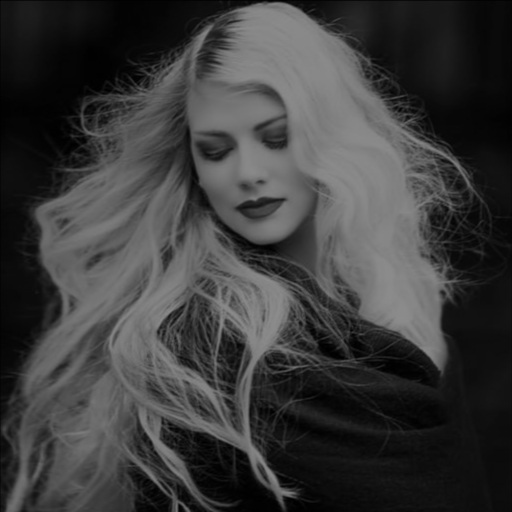
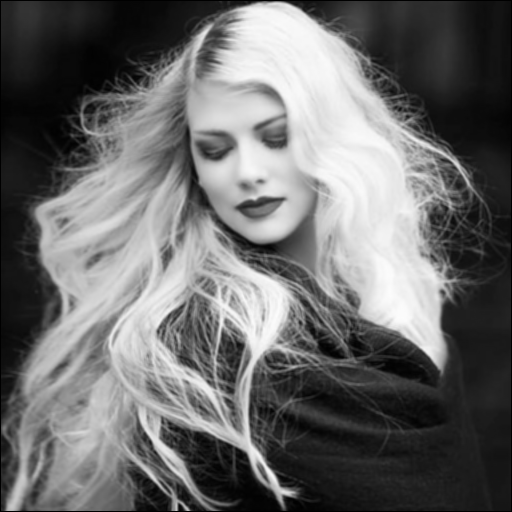
fixed open issue. can generate multiple image in one program. when padding with zeros, the intensity will be decreased. the kernel number should be odd.

diff --git a/lab2.py b/lab2.py
@@ -23,8 +23,9 @@ def gkern(l, sig):
 
     return kernel / np.sum(kernel)
 k3=gkern(3,0.5)
-k4=gkern(12,1.2)
+k4=gkern(13,1.2)
 #convolve the mask over the image
+'''
 def filter(kx):
     kernel_n=kx.shape[0]
     kn=int((kernel_n-1)/2)
@@ -39,12 +40,42 @@ def filter(kx):
                     sum_p=sum_p+img_new[s-kn+p,t-kn+q]*kx[p,q]
                     img_[s-kn,t-kn]=sum_p
     return img_
+    '''
+#without padding
+def filter(kx):
+    kernel_n=kx.shape[0]
+    kn=int((kernel_n-1)/2)
+    img_new=np.zeros([m,n])
+    for s in range(kn,m-kn):
+        for t in range(kn,n-kn):
+            sum_p=0
+            for p in range(0,kernel_n):
+               for q in range(0,kernel_n):
+                    sum_p=sum_p+img[s-kn+p,t-kn+q]*kx[p,q]
+                    img_new[s,t]=sum_p
+    return img_new
 
-img_f=filter(k1)
-img_f = img_f.astype(np.uint8)
-print(img_f.min(), img_f.max())
-cv2.imwrite('ones3.png', img_f)
-cv2.imshow('ones3',img_f)
+img_one3=filter(k1)
+img_one3= img_one3.astype(np.uint8)
+print('scale of origin')
+print(img.min(), img.max())
+print('scale after filter')
+print(img_one3.min(), img_one3.max())
+cv2.imwrite('ones3.png', img_one3)
+cv2.imshow('ones3',img_one3)
+
+img_one7=filter(k2)
+img_one7 = img_one3.astype(np.uint8)
+cv2.imwrite('ones7.png', img_one7)
+cv2.imshow('ones7',img_one7)
+
+img_g3=filter(k3)
+img_g3=img_g3.astype(np.uint8)
+cv2.imshow('g7',img_g3)
+
+img_g7=filter(k4)
+img_g7=img_g7.astype(np.uint8)
+cv2.imshow('g7',img_g7)
 
 cv2.imwrite('origin.png',img)
 cv2.imshow('origin',img)
